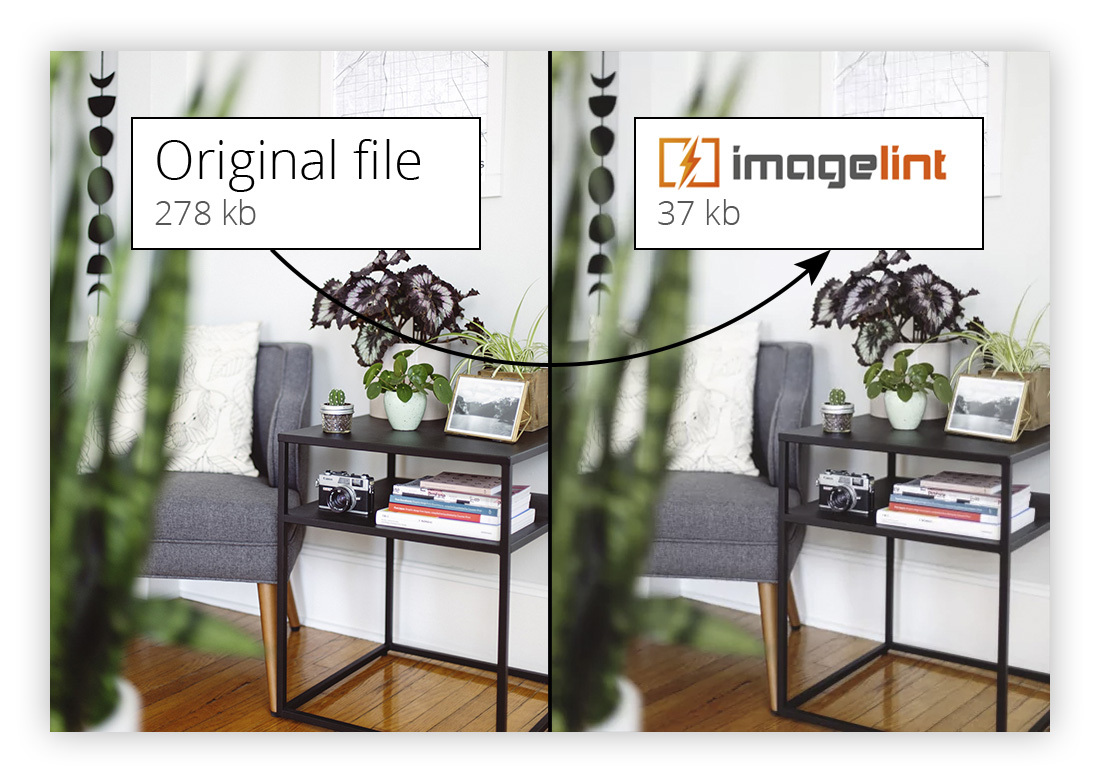
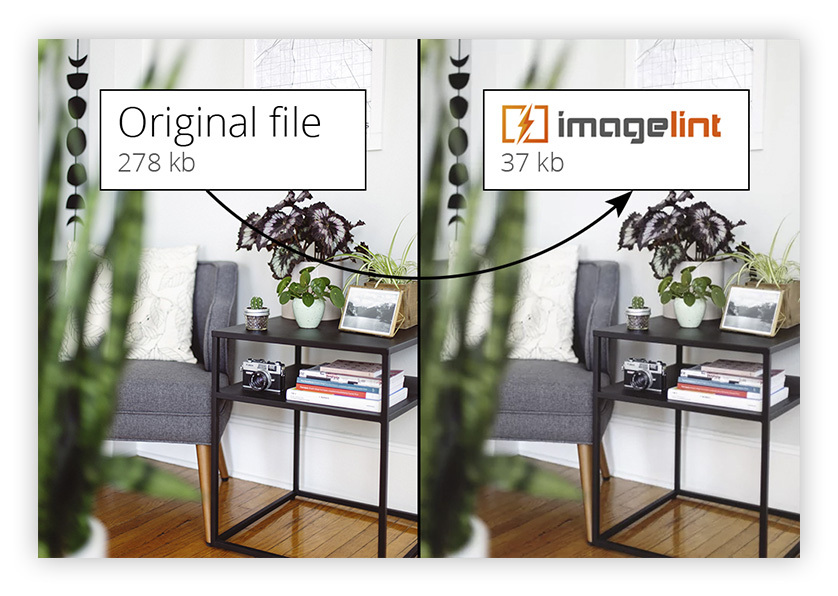
Update preview image

diff --git a/README.MD b/README.MD
@@ -18,7 +18,7 @@
 The following [unsplash image](https://unsplash.com/photos/tGG_Y-lew_Y) was resized to a width of 500px and then optimized with imagelint.
 
 <p align="center">
-<img src="https://raw.githubusercontent.com/imagelint/imagelint/master/.github/img/github-graphic-shadow.jpg" alt="Comparing two images, one is optimized with imagelint and is only 13% of the size of the unoptimized one" width="1100" height="782">
+<img src="https://raw.githubusercontent.com/imagelint/imagelint/master/.github/img/github-graphic-shadow.jpg" alt="Comparing two images, one is optimized with imagelint and is only 13% of the size of the unoptimized one" width="838">
 </p>
 
 ## Installation instructions
